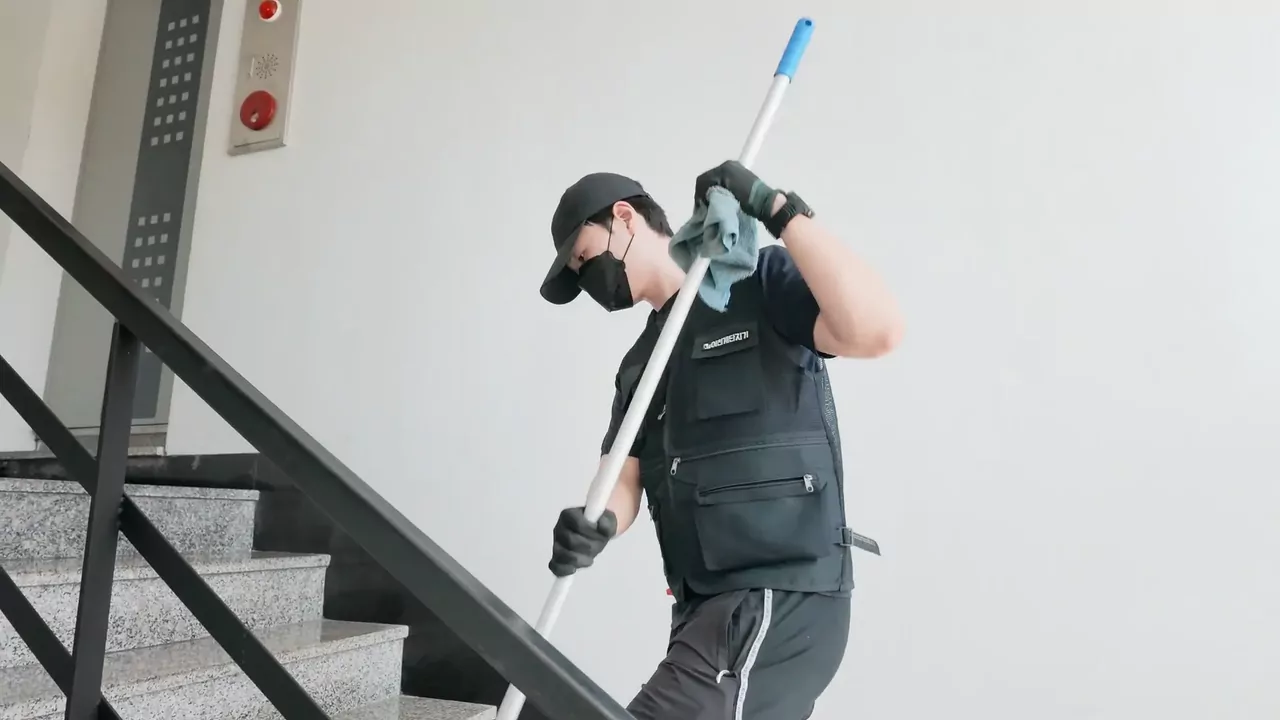
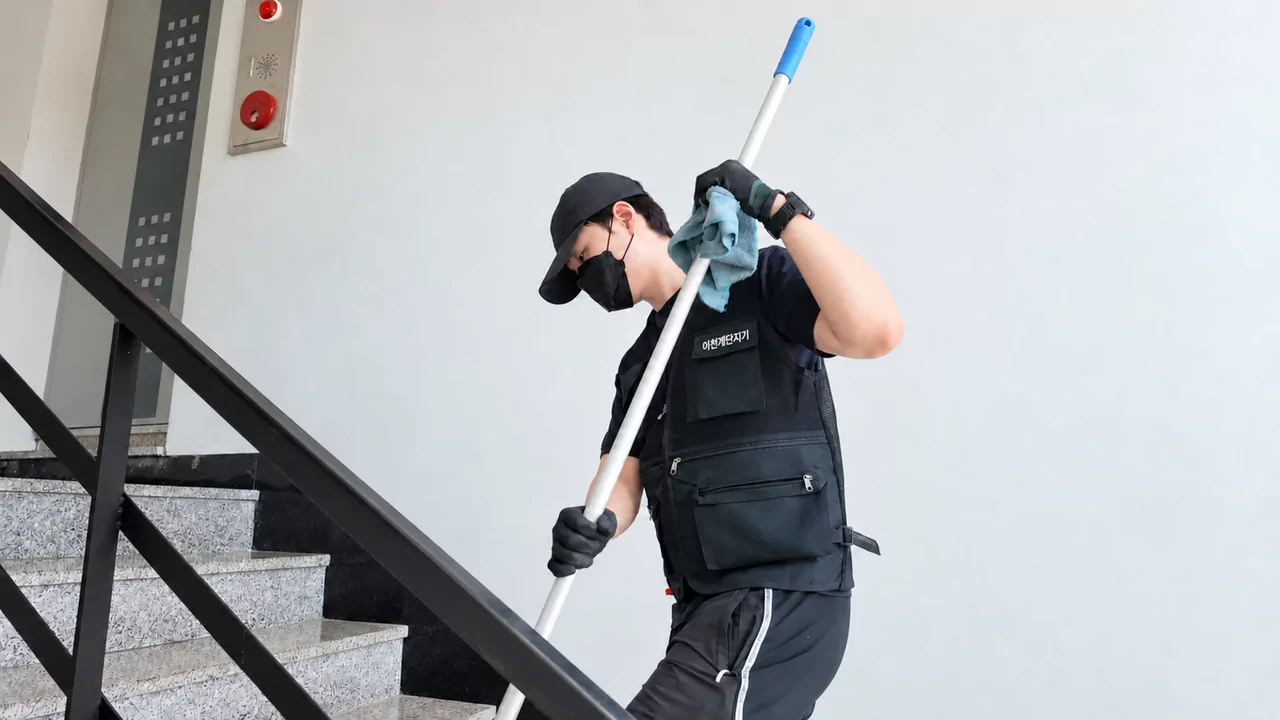
PC 첫 화면 1번 사진을 새로 받은 사진(2000×1125)으로 교체 (#160)
- 받은 사진 원본(2000px)을 그대로 쓰고, 1280·1920px은 높은 화질(84)로 생성
- 화면 크기에 맞게 1280·1920·2000px 중에서 고르도록 srcset 갱신
- 4K 원본을 받으면 2560·3840px을 추가할 예정

Claude-Session: https://claude.ai/code/session_01Dv2xiLAsUdEW6gcyUS2k2N

diff --git a/client/src/components/HeroSection.tsx b/client/src/components/HeroSection.tsx
@@ -21,8 +21,8 @@ const heroSlides = [
     title: "이천 계단청소 전문업체",
     text: "주소와 건물 사진을 보내주시면 관리 범위와 방문 가능 여부를 안내해드립니다.",
     image: "/images/hero-full-1",
-    // 원본이 1920px이라 큰 화면용 크기는 없다
-    widths: [1280, 1920],
+    // 받은 사진이 가로 2000px이라 2000px까지 (4K 원본을 받으면 2560·3840 추가)
+    widths: [1280, 1920, 2000],
     alt: "이천 빌라 계단 난간을 직접 청소하는 이천계단지기",
   },
   {
